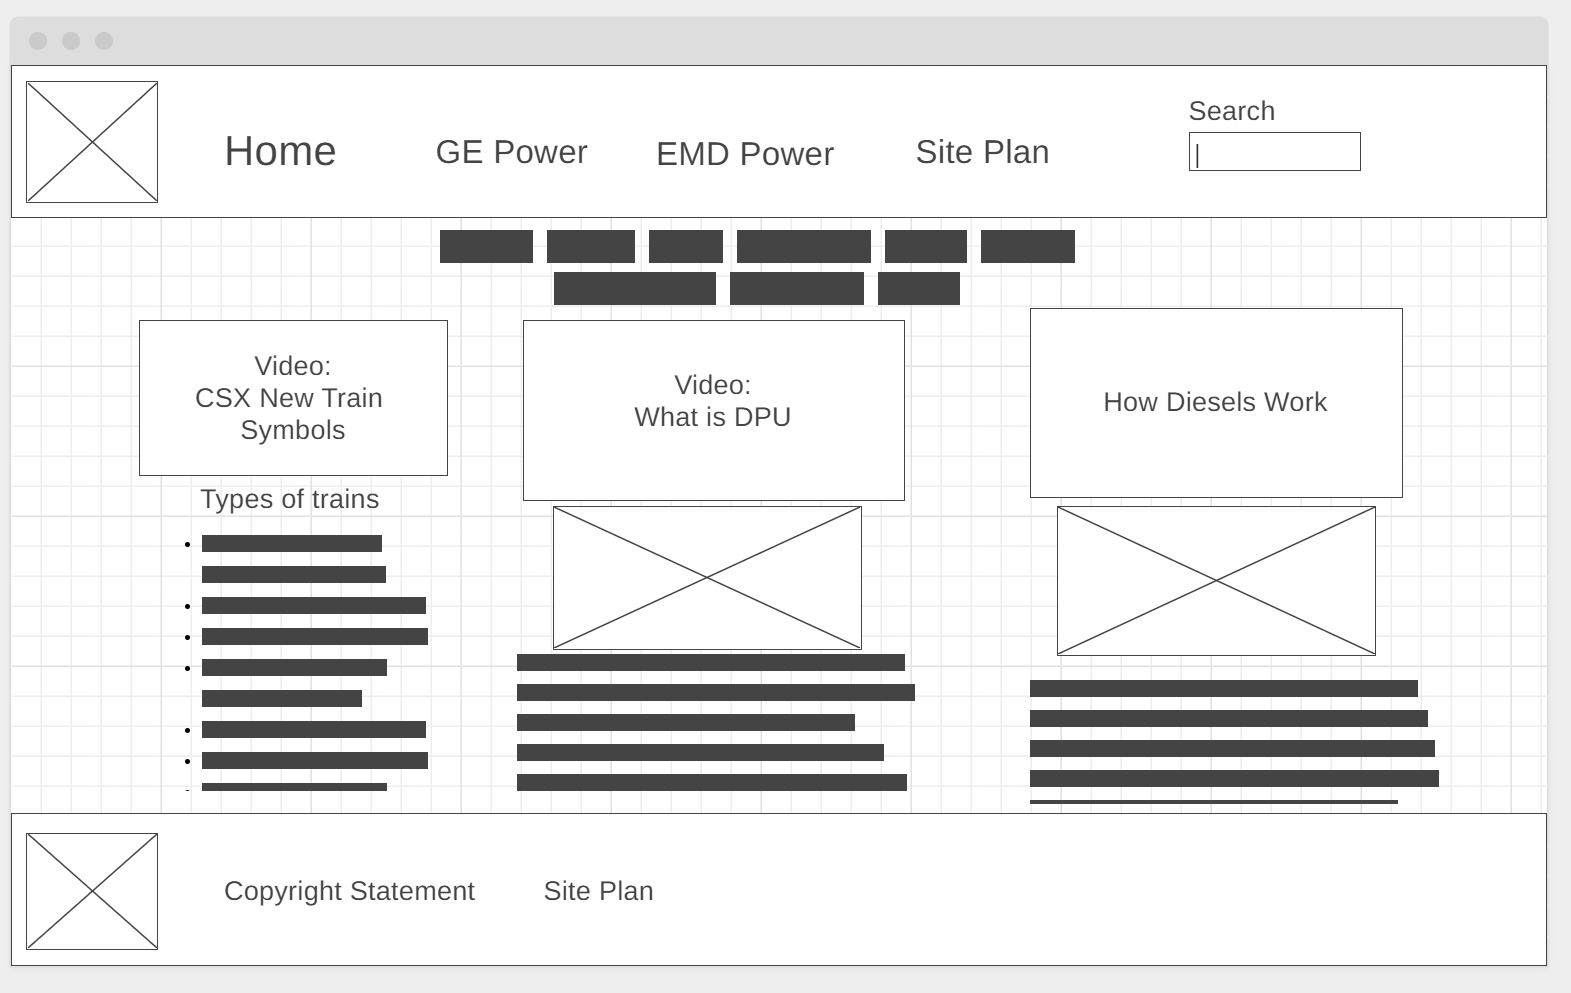
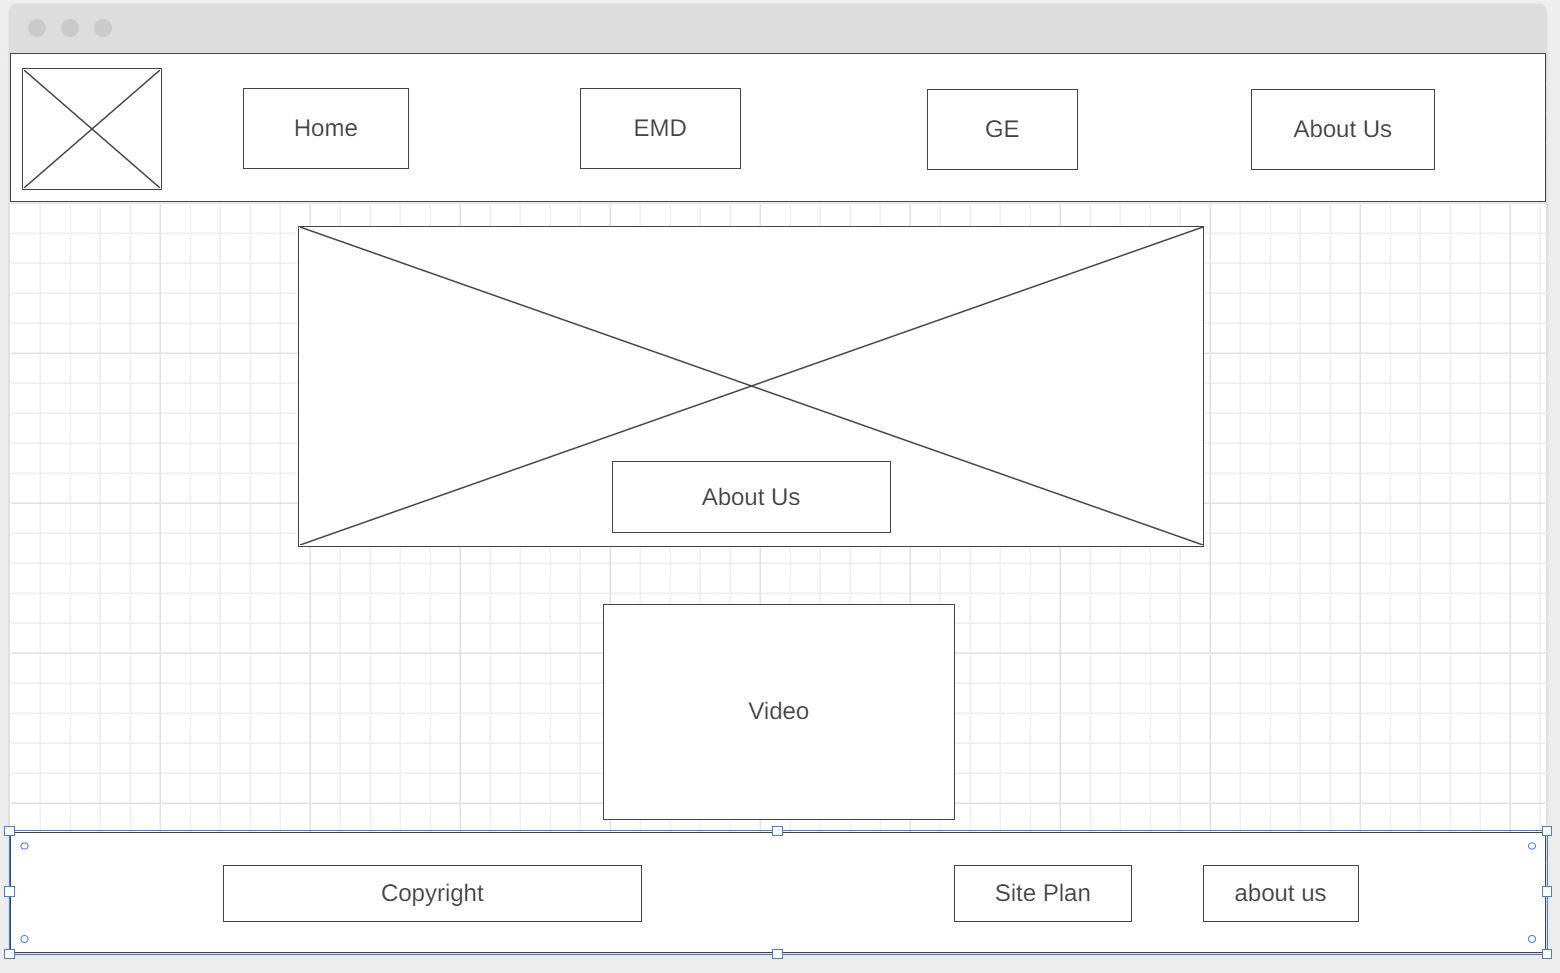
HTML update

diff --git a/LocomotiveDictionary/emd.html b/LocomotiveDictionary/emd.html
@@ -22,14 +22,60 @@
           <a href="index.html">Home</a>
           <a href="emd.html">Electro-Motive Division</a>
           <a href="ge.html">General Electric</a>
-          <a href="contactus.html">Contact Us</a>
+          <a href="aboutus.html">About Us</a>
         </nav>
       </header>
-
+      <div class="emd-grid">
+        <main>
+          <div id="gp-series">
+            <img src="./images/GP38-2.jpg" alt="GP38-2" />
+            <p></p>
+            <img src="./images/GP38-3.jpg" alt="GP38-3" />
+            <p></p>
+            <img src="./images/GP40-2.jpg" alt="GP40-2" />
+            <p></p>
+            <p>
+              Watch the GP40-2 in action while working a local switching job.
+            </p>
+            <iframe
+              width="560"
+              height="315"
+              src="https://www.youtube.com/embed/52DK0zqFSe0"
+              title="YouTube video player"
+              frameborder="0"
+              allow="accelerometer; autoplay; clipboard-write; encrypted-media; gyroscope; picture-in-picture"
+              allowfullscreen
+            ></iframe>
+            <img src="./images/GP40-3.jpg" alt="GP40-3" />
+            <p></p>
+          </div>
+          <div id="sd-series">
+            <img src="./images/SD40-2.jpg" alt="SD40-2" />
+            <p></p>
+            <img src="./images/SD40-3.jpg" alt="SD40-3" />
+            <p></p>
+            <img src="./images/SD70MAC.JPG" alt="SD70MAC" />
+            <p></p>
+            <img src="./images/SD70MACflared.jpg" alt="SD70MAC Flared" />
+            <p></p>
+            <img src="./images/ST70ACe.JPG" alt="ST70ACe" />
+            <p>Catch some ST70AH's (SD70ACe) in action below!</p>
+            <iframe
+              width="560"
+              height="315"
+              src="https://www.youtube.com/embed/xWOZk-lOPLQ"
+              title="YouTube video player"
+              frameborder="0"
+              allow="accelerometer; autoplay; clipboard-write; encrypted-media; gyroscope; picture-in-picture"
+              allowfullscreen
+            ></iframe>
+          </div>
+        </main>
+      </div>
       <footer>
         <p>Locomotive Dictionary &copy; 2022 - Luke Russell</p>
         <p><a href="./site-plan.html">Site Plan</a></p>
-        <p><a href="contactus.html">Contact Us</a></p>
+        <p><a href="aboutus.html">About Us</a></p>
       </footer>
     </div>
   </body>

diff --git a/LocomotiveDictionary/ge.html b/LocomotiveDictionary/ge.html
@@ -22,14 +22,49 @@
           <a href="index.html">Home</a>
           <a href="emd.html">Electro-Motive Division</a>
           <a href="ge.html">General Electric</a>
-          <a href="contactus.html">Contact Us</a>
+          <a href="aboutus.html">About Us</a>
         </nav>
       </header>
-
+      <div class="emd-grid">
+        <main>
+          <div id="dash-series">
+            <img src="./images/Dash8-40CW.jpg" alt="Dash8-40CW" />
+            <p></p>
+            <img src="./images/Dash9-40CW.jpg" alt="Dash9-40CW" />
+            <p></p>
+            <img src="./images/CM44AC.jpg" alt="AC44CW" />
+            <p>
+              The AC44CW, known to CSX as the CM44AC, is distingushed from the
+              GEVOs by its shorter radiator, like that on the C40-9W and
+              C40-8W's.
+            </p>
+            <img src="./images/" alt="" />
+            <p></p>
+          </div>
+          <div id="gevo-series">
+            <img src="./images/ES40DC.jpg" alt="ES40DC" />
+            <p>
+              The ES40DC and the ES44DC look the same, but the ED40DC has 4000hp
+              while its counterpart has 4400hp.
+            </p>
+            <img src="./images/GevoDPU.PNG" alt="ES44DC" />
+            <p>Distingushable from the other GEVO's by its Hi-ad trucks</p>
+            <img src="./images/Gevo1.PNG" alt="ES44AH" />
+            <p></p>
+            <img src="./images/Gevo2.PNG" alt="ES44AH" />
+            <p></p>
+            <img src="./images/ET44AH.PNG" alt="ET44AH" />
+            <p>
+              ET44AH's do not have the second slant on the radiator as the ES
+              series GEVOs do, but the do feature the Hi-ad trucks of
+            </p>
+          </div>
+        </main>
+      </div>
       <footer>
         <p>Locomotive Dictionary &copy; 2022 - Luke Russell</p>
         <p><a href="./site-plan.html">Site Plan</a></p>
-        <p><a href="contactus.html">Contact Us</a></p>
+        <p><a href="aboutus.html">About Us</a></p>
       </footer>
     </div>
   </body>

diff --git a/LocomotiveDictionary/aboutus.html b/LocomotiveDictionary/aboutus.html
@@ -5,6 +5,7 @@
     <meta http-equiv="X-UA-Compatible" content="IE=edge" />
     <meta name="viewport" content="width=device-width, initial-scale=1.0" />
     <link rel="stylesheet" href="homepage.css" />
+    <link rel="stylesheet" href="subpages.css" />
     <title>Document</title>
   </head>
   <body>
@@ -24,35 +25,13 @@
           <a href="aboutus.html">About Us</a>
         </nav>
       </header>
-      <div id="hero">
-        <div id="hero-box">
-          <img
-            id="hero-img"
-            src="./images/hero.jpg"
-            alt="CSX GEVOs at St. Dennis"
-          />
-        </div>
-        <section id="hero-msg">
-          <h1 class="home-title">CSX Locomotive Dictionary</h1>
-          <h4>Real Trains, Real Stories</h4>
-          <div class="button-box">
-            <a class="about" href="aboutus.html">About Us</a>
-          </div>
-        </section>
-      </div>
-      <main class="home-grid">
-        <h2>Brief Introduction to CSX Train Types</h2>
-        <iframe
-          class="video1"
-          width="560"
-          height="315"
-          src="https://www.youtube.com/embed/xyzv08zK0bk"
-          title="YouTube video player"
-          frameborder="0"
-          allow="accelerometer; autoplay; clipboard-write; encrypted-media; gyroscope; picture-in-picture"
-          allowfullscreen
-        ></iframe>
-      </main>
+      <h1>About Us</h1>
+      <p>
+        Here at Locomotive Dictionary pride ourselves with helping the novice
+        railfan learn his or her CSX locomotive power, and our experience in the
+        field has been invaluble to our company.
+      </p>
+      <img src="./images/611&me (2).jpg" alt="The Author" />
       <footer>
         <p>Locomotive Dictionary &copy; 2022 - Luke Russell</p>
         <p><a href="./site-plan.html">Site Plan</a></p>

diff --git a/LocomotiveDictionary/homepage.css b/LocomotiveDictionary/homepage.css
@@ -1,3 +1,11 @@
+#content {
+  max-width: 1600px;
+  text-align: center;
+  margin: 0 auto;
+  font-family: "Rock Salt", "Bradley Hand", sans-serif;
+  font-size: 2em;
+}
+
 header {
   background-color: #5e1914;
   display: grid;
@@ -25,6 +33,13 @@ nav a {
   padding: 35px;
 }
 
+footer p a:hover {
+  text-decoration: underline;
+  font-size: 1.2em;
+  padding-top: 15px;
+  padding: 25px 50px;
+}
+
 footer {
   background-color: #5e1914;
   padding: 25px 50px;
@@ -43,4 +58,58 @@ footer {
   padding-top: 5px;
   justify-self: center;
   align-self: center;
+}
+
+#hero {
+  display: grid;
+  grid-template-columns: 1fr 3fr 1fr;
+  margin-top: -150px;
+}
+
+#hero-img {
+  width: 100%;
+  height: 100%;
+}
+
+#hero-msg {
+  line-height: 1.5em;
+  color: black;
+  grid-column: 2/3;
+  grid-row: 2/3;
+  margin-top: 100px;
+  background-color: #5e1914;
+}
+
+#hero-msg h4 {
+  color: black;
+}
+
+#hero-img {
+  width: 100%;
+  height: 100%;
+}
+
+#hero-box {
+  grid-column: 1/4;
+  grid-row: 1/3;
+  z-index: -1;
+}
+
+.about {
+  color: black;
+  background-color: white;
+  text-decoration: none;
+  font-size: 18px;
+  padding: 15px 30px;
+  margin-top: 50px;
+  margin-bottom: 20px;
+  border-radius: 5px;
+}
+
+h2 {
+  margin: 20;
+}
+
+.video1 {
+  margin-top: 10px;
 }
